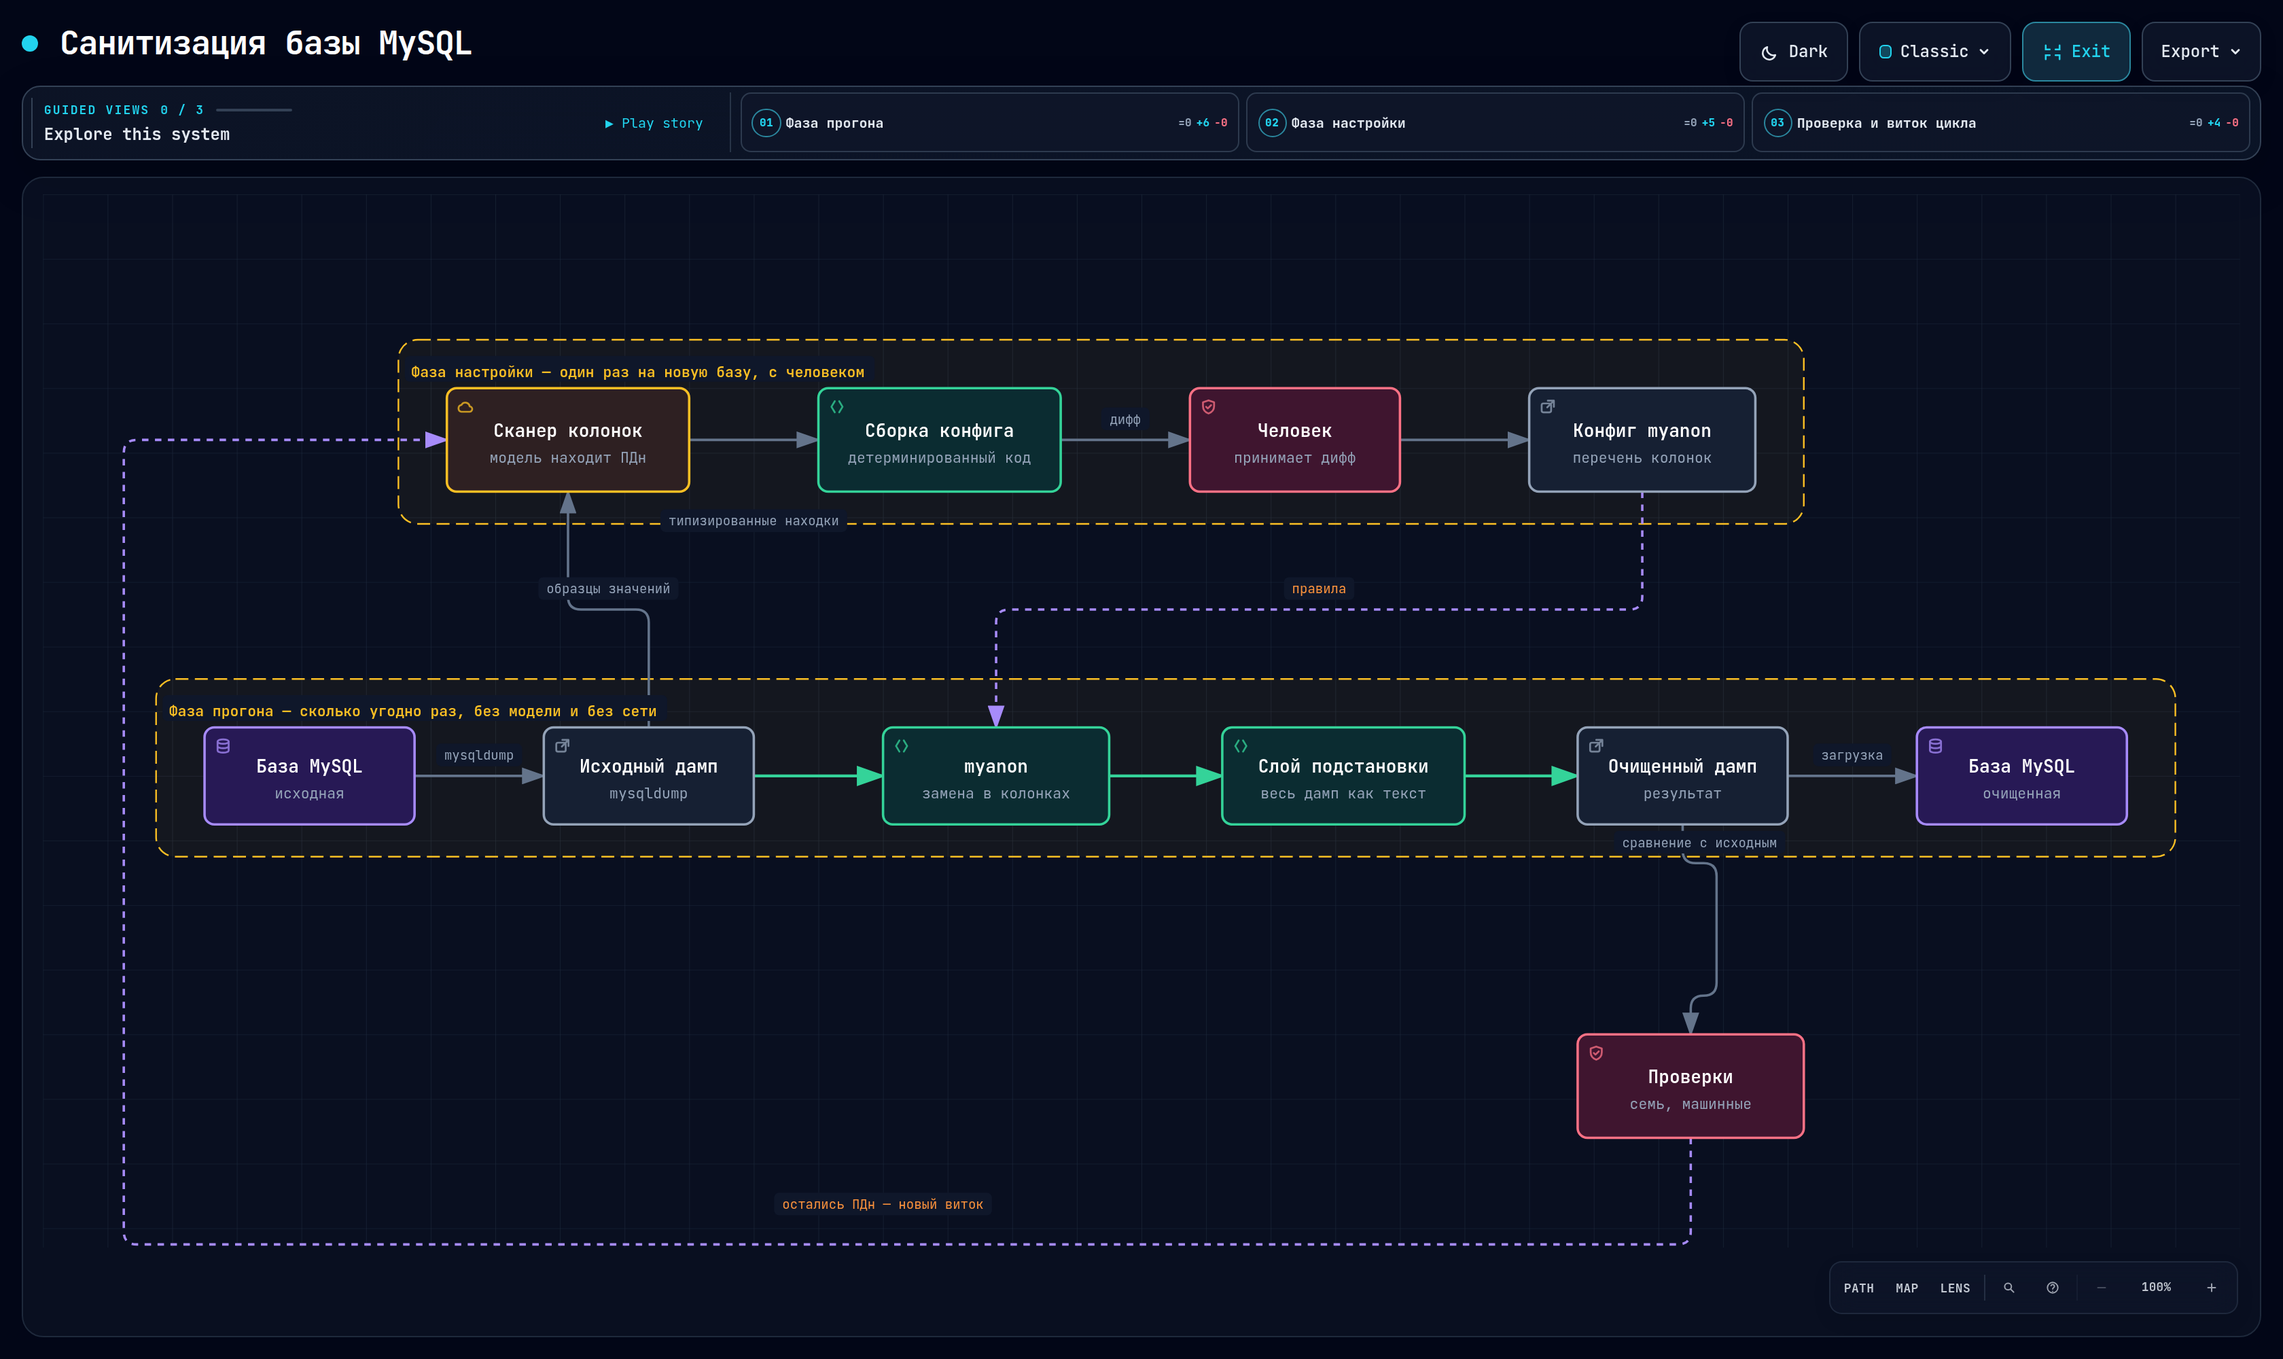
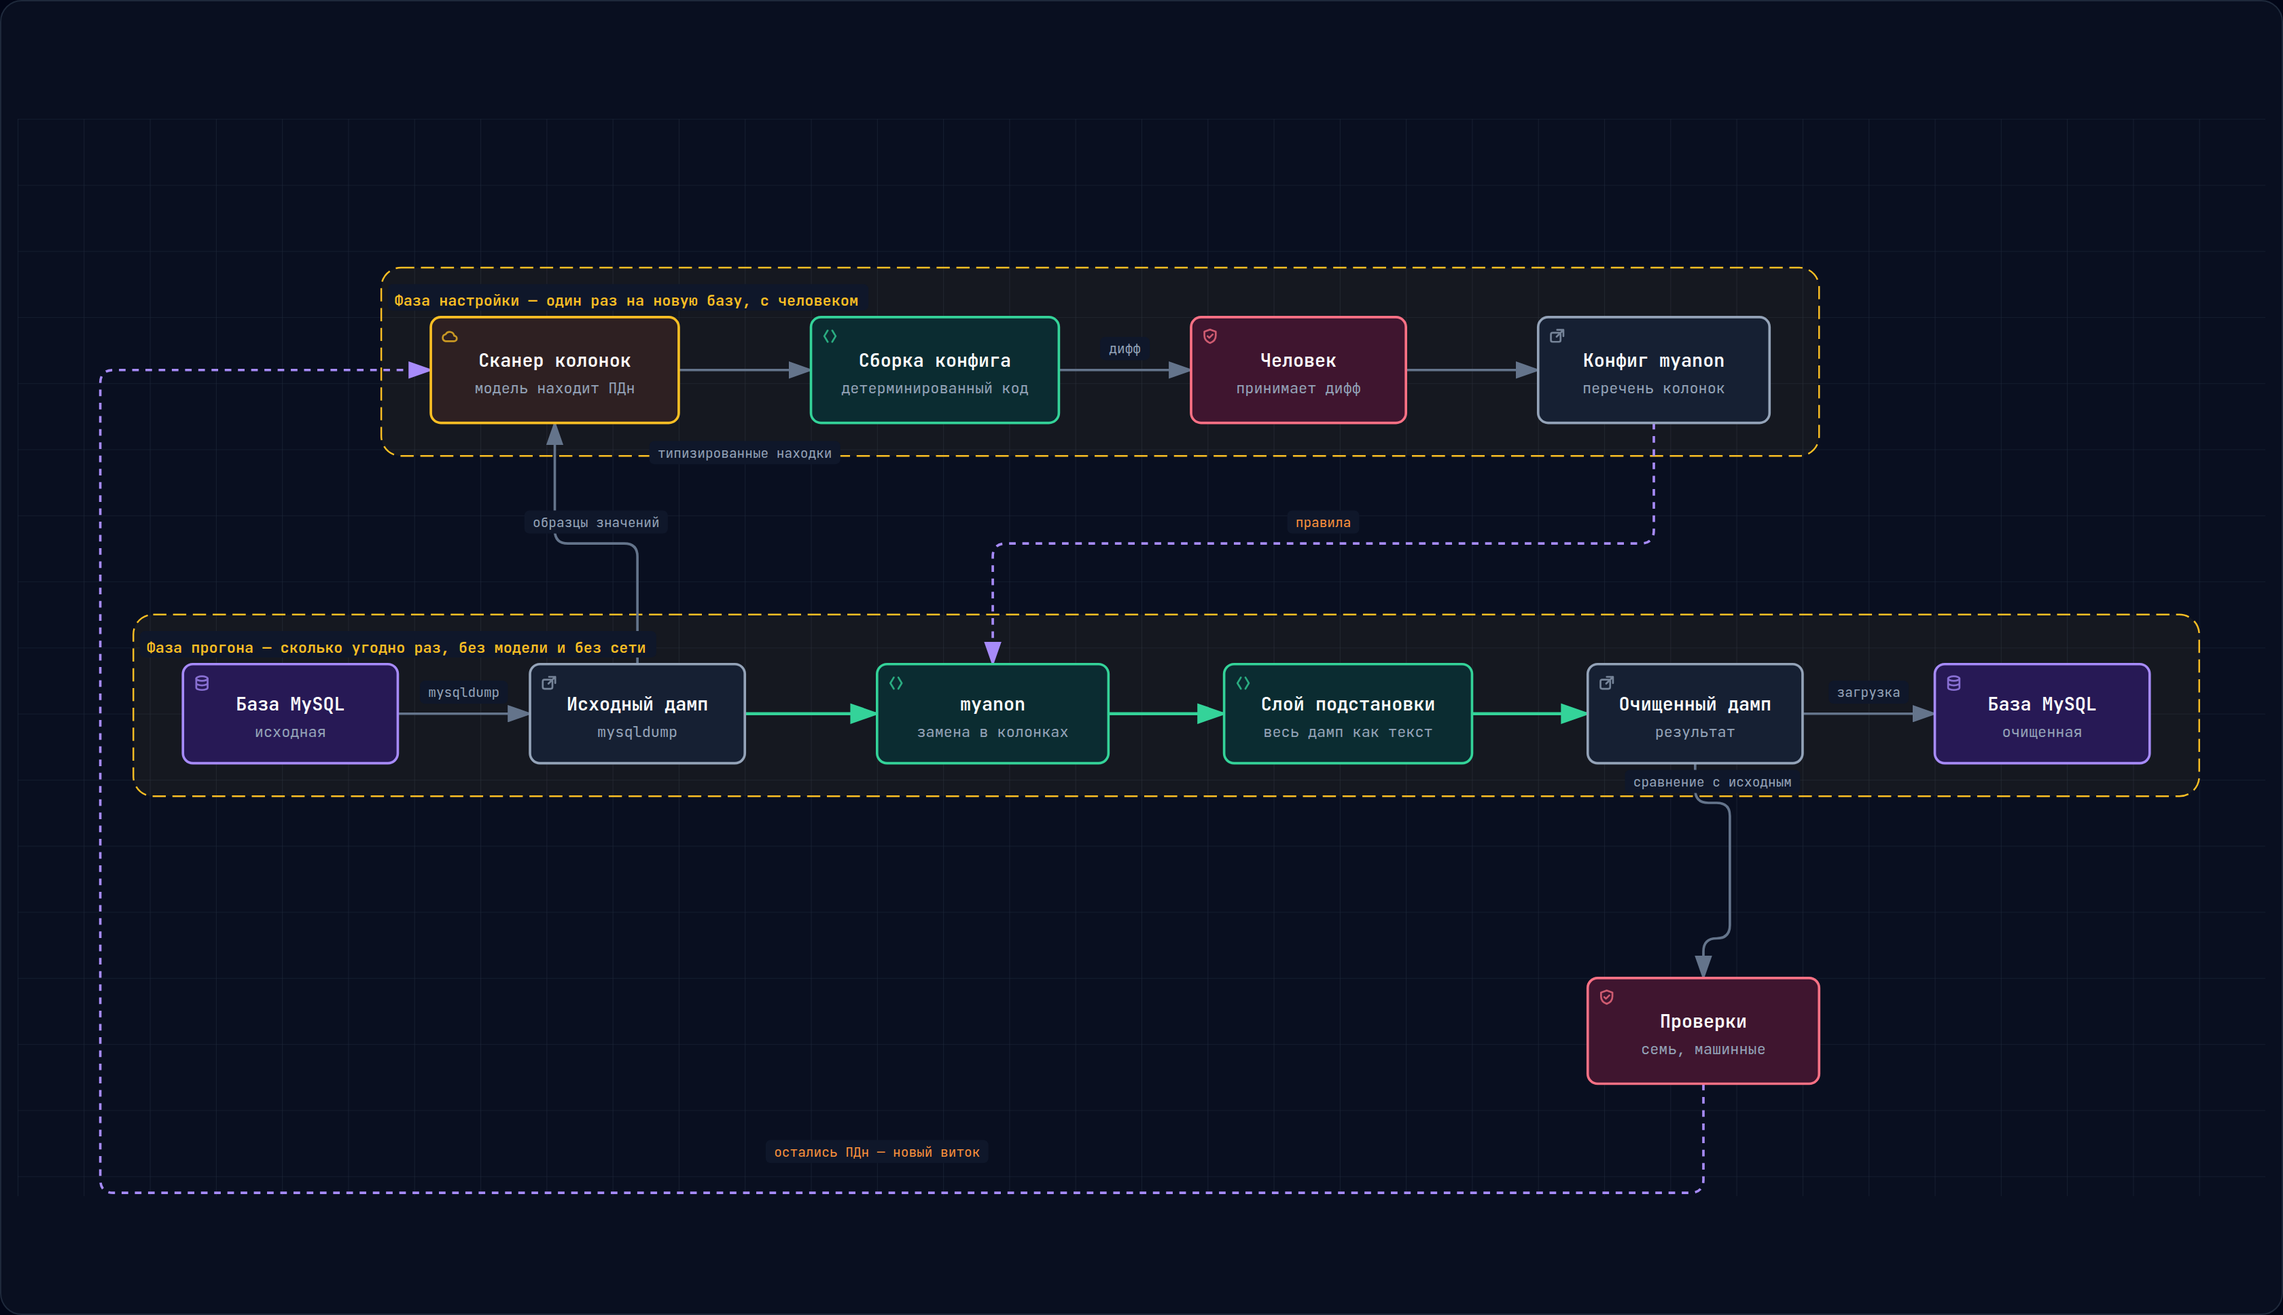
Читаемость README: один стиль схем, схемы без интерфейса, таблицы уже
Картинка архитектуры переснята без панели редактора: в кадре были
Dark/Classic/Exit/Export, GUIDED VIEWS, Play story, PATH MAP LENS — интерфейс
archify, а не решение.

Схема цикла автонастройки переведена с псевдографики на mermaid: стилей
схем стало два вместо трёх, и возврат на новый виток виден как ребро,
а не как строка со стрелкой.

Граф модулей перестроен: подписи вынесены в таблицу под ним, узлы стали
однострочными — в прежнем виде правая часть и нижний ряд не помещались
в ширину страницы и обрезались при печати.

Первая таблица: длинные формулировки в колонке «Пункт» рвались по словам,
сокращены до двух-трёх слов; абзац про роль модели вынесен из клетки
под таблицу.

diff --git a/README.md b/README.md
@@ -27,11 +27,18 @@
 
 | Пункт | Чем закрыт | Подтверждение |
 |---|---|---|
-| Объяснить выбранный формат решения | этот документ | — |
-| Проресерчить опенсорс и доработать | myanon выбран из пяти кандидатов и доработан вторым слоем | на сегодняшнем конфиге после одного лишь myanon в дампе оставалось 131 исходное значение из 186 |
-| Использовать ллм для логичных замен | модель находит, детерминированный механизм заменяет: сканер определяет колонки с ПДн и через код настраивает myanon, детектор ищет имена в свободном тексте. Что из этого уже работает, а что нет — в разделе «Состояние работ», без округлений | сканер: 3 колонки принято, 14 отклонено детерминированными фильтрами; относительно ручного конфига добавил пропущенное и убрал лишнее. Детектор: 10 из 10 найдено, 0 ложных на 13 отрицательных примерах |
-| Внедрить сквозные замены | одно значение заменяется одинаково в колонке и в тексте | 186 пар проверено, расхождений 0 |
-| Сохранить связи, объём, разнообразие | замены сохраняют вид данных, строки не удаляются | 30/15/60/60 строк, разнообразие совпадает везде |
+| Формат решения | этот документ | — |
+| Опенсорс и доработка | myanon выбран из пяти кандидатов, доработан вторым слоем | после одного лишь myanon в дампе оставалось 131 значение из 186 |
+| Роль ЛЛМ | модель находит, детерминированный механизм заменяет | сканер: 3 колонки принято, 14 отклонено. Детектор: 10 из 10, 0 ложных |
+| Сквозные замены | одно значение заменяется одинаково в колонке и в тексте | 186 пар, расхождений 0 |
+| Связи и объём | замены сохраняют вид данных, строки не удаляются | 30/15/60/60 строк, разнообразие совпадает везде |
+
+**Подробнее про роль модели.** Сканер определяет колонки с персональными
+данными и через код настраивает myanon; детектор ищет имена в свободном
+тексте. Относительно написанного руками конфига сканер добавил пропущенное
+и убрал лишнее. Ноль ложных срабатываний получен на 13 отрицательных
+примерах. Что из этого уже встроено в конвейер, а что нет — в разделе
+«Состояние работ», без округлений.
 
 ---
 
@@ -149,58 +156,72 @@ orders.comment у того же клиента
 
 ```mermaid
 graph TD
-    subgraph Основания["Основания — на другие модули конвейера не опираются"]
-        sql_parse["sql_parse<br/>разбор INSERT, оба формата дампа"]
-        db_schema["db_schema<br/>разбор CREATE TABLE, ключевые колонки"]
-        pii["pii_patterns<br/>формат + контрольные суммы + порождение"]
-        guard["loop_guard<br/>предохранители цикла"]
-        names["names<br/>пул ФИО, раздача хешем"]
+    subgraph Прогон["Фаза прогона"]
+        myanon["myanon"]
+        subst["text_substitute"]
+    end
+
+    subgraph Проверка["checks — поставляется"]
+        verify["checks.verify"]
+        determ["checks.determinism"]
     end
 
     subgraph Настройка["Фаза настройки"]
-        scan["scan_columns<br/>модель называет колонки с ПДн"]
+        scan["scan_columns"]
     end
 
-    subgraph Прогон["Фаза прогона"]
-        myanon["myanon<br/>замена в колонках по конфигу"]
-        subst["text_substitute<br/>подстановка по всему дампу"]
+    subgraph Замер["Замер детектора — вне прогона"]
+        detect["detect"]
+        control["control_check"]
+        test["test_control_set"]
     end
 
-    subgraph Проверка["checks — поставляемая часть"]
-        verify["checks.verify<br/>семь проверок результата"]
-        determ["checks.determinism<br/>тот же ключ — тот же результат"]
+    subgraph Основания["Основания"]
+        pii["pii_patterns"]
+        sql_parse["sql_parse"]
+        db_schema["db_schema"]
+        guard["loop_guard"]
+        names["names"]
     end
 
-    subgraph Замер["Замер детектора — в прогоне не участвует"]
-        control["control_check<br/>правило сравнения и проверка эталона"]
-        detect["detect<br/>детектор имён в свободном тексте"]
-        test["tests/test_control_set<br/>тест пригодности эталона"]
-    end
+    gen["generate_demo_dump"]
 
-    gen["scripts/generate_demo_dump<br/>демо-данные"]
-
-    scan --> db_schema
-    scan --> pii
-    scan --> sql_parse
-
+    myanon --> subst
     subst --> pii
     subst --> sql_parse
     subst --> names
 
     verify --> pii
     verify --> sql_parse
-    verify -.->|"см. оговорку ниже"| subst
+    verify -.->|"оговорка ниже"| subst
     determ --> verify
+
+    scan --> db_schema
+    scan --> pii
+    scan --> sql_parse
 
     detect --> control
     detect --> guard
     detect --> pii
-    control --> pii
     test --> control
+    control --> pii
     gen --> pii
-
-    myanon --> subst
 ```
+
+| Модуль | Что делает |
+|---|---|
+| `sql_parse` | разбор INSERT, оба формата дампа |
+| `db_schema` | разбор CREATE TABLE, ключевые колонки |
+| `pii_patterns` | формат, контрольные суммы, порождение замен |
+| `loop_guard` | предохранители цикла |
+| `names` | пул ФИО, раздача хешем |
+| `scan_columns` | модель называет колонки с ПДн |
+| `text_substitute` | подстановка по всему дампу |
+| `checks.verify` | семь проверок результата |
+| `checks.determinism` | тот же ключ — тот же результат |
+| `control_check` | правило сравнения и проверка эталона |
+| `detect` | детектор имён в свободном тексте |
+| `generate_demo_dump` | демо-данные |
 
 **Чего в графе нет намеренно.** Модуль `paths` — от него зависят семеро, но
 он разрешает пути к данным и к частям конвейера отношения не имеет; семь
@@ -375,26 +396,18 @@ graph TD
 
 Перечень обрабатываемых колонок не пишется руками. Его определяет цикл:
 
-```
-   исходный дамп
-        │
-        ▼
-   1. Сканирование      модель смотрит на образцы значений и называет
-                        колонки с персональными данными
-        │
-        ▼
-   2. Сборка конфига    детерминированный код превращает находки
-                        в правила myanon
-        │
-        ▼
-   3. Санитизация       myanon по этому конфигу + слой подстановки
-        │
-        ▼
-   4. Проверка          что осталось в результате
-        │
-        ├── чисто ──────────────► конфиг принимается человеком
-        │
-        └── найдено ещё ───► новый виток с дополненным конфигом
+```mermaid
+graph TD
+    dump["исходный дамп"]
+    scan["1. Сканирование<br/>модель смотрит образцы значений<br/>и называет колонки с ПДн"]
+    build["2. Сборка конфига<br/>детерминированный код превращает<br/>находки в правила myanon"]
+    san["3. Санитизация<br/>myanon по этому конфигу<br/>+ слой подстановки"]
+    check{"4. Проверка<br/>что осталось в результате"}
+    ok["конфиг принимается человеком"]
+
+    dump --> scan --> build --> san --> check
+    check -->|чисто| ok
+    check -->|"найдено ещё"| scan
 ```
 
 **Модель не настраивает myanon.** Она возвращает типизированный список находок:
